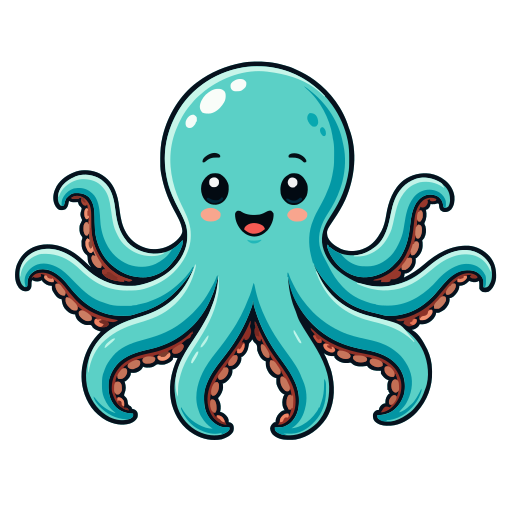
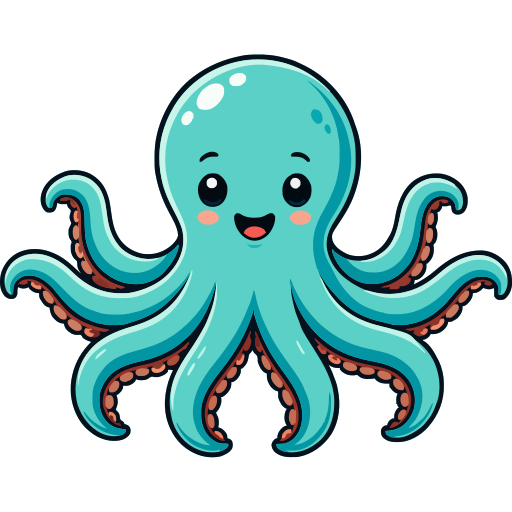
fix(brand): otto had no viewBox, so a quarter of him was empty space
The file declares width=1254 height=1254 and carries no viewBox at all, while
the artwork inside it measures 1178x927 at (37, 151) — measured with getBBox in
a real browser, not estimated. Every surface that drew Otto therefore reserved
26% of its height for nothing, and at small sizes that is the difference between
a mascot and a smudge: the /new-tab hero, the dashboard topbar, and the
playground lockups all paid it. A missing viewBox is also a real defect on its
own terms, since without one an SVG cannot be resized meaningfully.

The copies deliberately take two shapes now, and the split is load-bearing:

  - docs/images/otto/otto.svg stays a SQUARE master with a square viewBox
    tightened to the artwork. scripts/generate_image_assets.sh rasterizes it
    with `rsvg-convert -w S -h S`, which stretches rather than pads, and an
    avatar or favicon wants to be square regardless. The derivative ladder is
    regenerated and is still square, now with Otto filling the frame.
  - the UI copies (src/octowright/http, packages/octowright-frontend/static,
    demo/playground/static) crop to the artwork's real bounds, 1178x927,
    because a lockup beside a wordmark has no reason to reserve that dead space.

Otto is wider than he is tall after the crop, so every consumer of the UI copies
now sizes him by HEIGHT with the width left to follow — setting both stretches
him. That covers the /new-tab hero, the dashboard topbar on both pages, and the
[…]

Changed region(s): [[0.0, 0.0938, 1.0, 0.9062], [0.375, 0.2812, 0.4375, 0.3125]]

diff --git a/demo/playground/static/index.html b/demo/playground/static/index.html
@@ -9,7 +9,7 @@
 <body class="range-shell">
 <aside class="target-rail" aria-label="Test targets">
   <a class="brand-lockup" href="/" aria-label="Octowright Test Range home">
-    <img src="/otto.svg" alt="" width="54" height="54">
+    <img src="/otto.svg" alt="" width="69" height="54">
     <span>OCTOWRIGHT</span>
   </a>
   <div class="rail-title">Test Targets</div>
@@ -75,7 +75,7 @@
           <a class="secondary-action" href="/form-flow.html">Run form flow</a>
         </div>
       </div>
-      <img class="hero-logo" src="/otto.svg" alt="Octowright mascot logo" width="256" height="256">
+      <img class="hero-logo" src="/otto.svg" alt="Octowright mascot logo" width="256" height="201">
     </section>
 
     <section id="target-map" class="map-panel" aria-labelledby="map-title">

diff --git a/packages/octowright-frontend/static/session.html b/packages/octowright-frontend/static/session.html
@@ -10,7 +10,7 @@
 <body class="page page--session">
   <header class="topbar">
     <a class="topbar__brand topbar__brand--link" href="/" title="back to dashboard">
-      <img class="topbar__logo" src="otto.svg" alt="" aria-hidden="true" width="32" height="32">
+      <img class="topbar__logo" src="otto.svg" alt="" aria-hidden="true" width="36" height="28">
       <span>octo<strong>wright</strong></span>
     </a>
     <span class="topbar__sep" aria-hidden="true">/</span>

diff --git a/packages/octowright-frontend/static/index.html b/packages/octowright-frontend/static/index.html
@@ -9,7 +9,7 @@
 </head>
 <body class="page page--dashboard">
   <header class="topbar">
-    <img class="topbar__logo" src="otto.svg" alt="" aria-hidden="true" width="32" height="32">
+    <img class="topbar__logo" src="otto.svg" alt="" aria-hidden="true" width="36" height="28">
     <h1 class="topbar__brand">octo<strong>wright</strong></h1>
     <span class="topbar__hint">refreshes every 5s</span>
   </header>

diff --git a/demo/playground/static/range.css b/demo/playground/static/range.css
@@ -24,11 +24,12 @@
   letter-spacing: 0;
 }
 
+/* Otto is 1178x927: sized by height. object-fit:cover is gone with the square
+   box -- there is no longer any overflow to crop, and cover would cut tentacles. */
 .brand-lockup img {
-  width: 54px;
+  width: auto;
   height: 54px;
   border-radius: 8px;
-  object-fit: cover;
 }
 
 .rail-title {

diff --git a/packages/octowright-frontend/static/styles.css b/packages/octowright-frontend/static/styles.css
@@ -68,9 +68,10 @@ code, .mono { font-family: var(--mono); }
   z-index: 100;
 }
 
+/* Otto is 1178x927: sized by height so the width setting cannot stretch him. */
 .topbar__logo {
   display: block;
-  width: 28px;
+  width: auto;
   height: 28px;
   flex-shrink: 0;
 }

diff --git a/demo/playground/static/base.css b/demo/playground/static/base.css
@@ -174,8 +174,9 @@ button:disabled { opacity: 0.55; cursor: default; }
   text-transform: uppercase;
 }
 
+/* Otto is 1178x927: sized by height, width follows. */
 .mini-brand img {
-  width: 36px;
+  width: auto;
   height: 36px;
   border-radius: 6px;
 }

diff --git a/src/octowright/http/routes/new_tab.py b/src/octowright/http/routes/new_tab.py
@@ -99,7 +99,8 @@ _HTML_TMPL = """\
     }}
     .card {{ text-align: center; }}
     .otto {{
-      width: 192px; height: 192px;
+      /* Otto is 1178x927: size by height, or the width setting stretches him. */
+      width: auto; height: 192px;
       margin: 0 auto 1.25rem;
       display: block;
     }}
@@ -132,7 +133,7 @@ _HTML_TMPL = """\
 </head>
 <body>
   <div class="card">
-    <img src="/otto.svg" alt="Otto" class="otto" width="192" height="192">
+    <img src="/otto.svg" alt="Otto" class="otto" width="244" height="192">
     <div class="wordmark">octo<strong>wright</strong></div>
     <div class="meta">
       <div>

diff --git a/docs/images/README.md b/docs/images/README.md
@@ -37,7 +37,17 @@ docs/images/
 
 - `brand/octowright-banner.png` — branded mark (with wordmark). 128/256/512
   variants resize from this.
-- `otto/otto.svg` — vector mascot. The avatar PNG ladder and the favicon
+- `otto/otto.svg` — vector mascot, **square master**. It carries a square
+  `viewBox` tightened to the artwork, and that squareness is load-bearing rather
+  than cosmetic: `generate_image_assets.sh` rasterizes it with
+  `rsvg-convert -w S -h S`, which stretches rather than pads, and an avatar or
+  favicon wants to be square regardless. The UI copies of Otto
+  (`src/octowright/http/otto.svg`, `packages/octowright-frontend/static/`,
+  `demo/playground/static/`) deliberately differ: they carry a **wide** viewBox
+  cropped to the artwork's real bounds, because a lockup beside a wordmark has
+  no reason to reserve the 26% of vertical dead space a square canvas implies.
+  Every consumer of those sizes Otto by height with the width left to follow.
+  The avatar PNG ladder and the favicon
   PNGs all derive from this.
 - `favicon/social-og-image.png` and `favicon/favicon.ico` are tracked but
   intentionally hand-curated — they are NOT outputs of the regeneration
